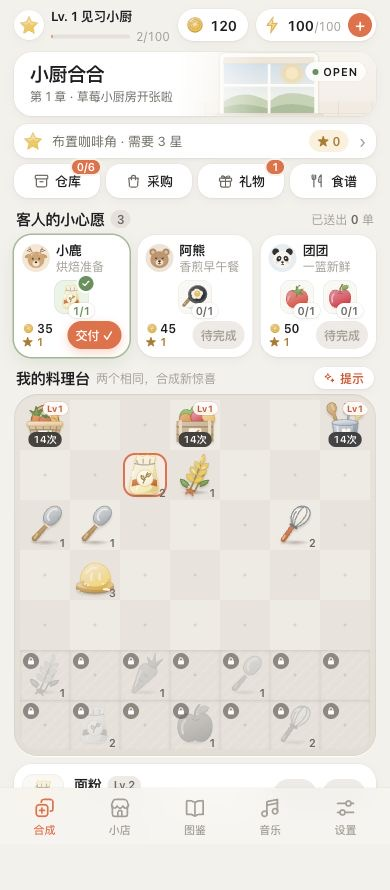
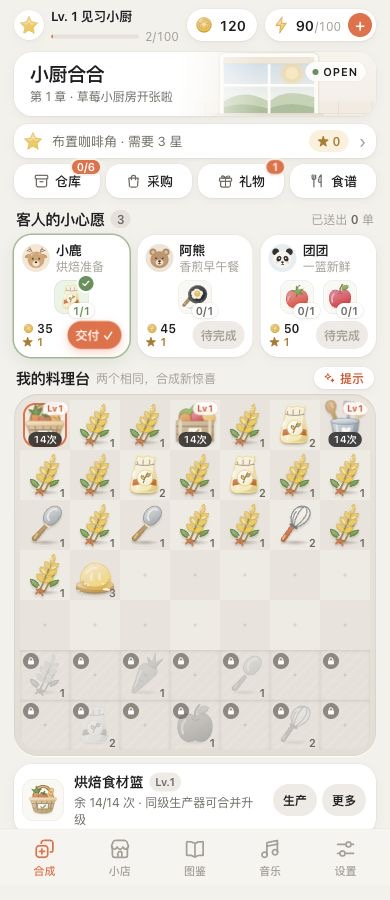
feat(kitchen-merge): add breathing and elastic interaction motion

diff --git a/kitchen-merge/dist/style.css b/kitchen-merge/dist/style.css
@@ -828,7 +828,8 @@ h1,h2,h3,p { margin:0; }
   box-shadow:inset 0 0 0 2px var(--accent);
 }
 
-.cell.selected .item-art { transform:scale(1.06); }
+.cell.selected { --item-scale:1.06; }
+.cell.selected .item-art { transform:scale(var(--item-scale)); }
 
 .cell.hint:before {
   inset:3px;
@@ -1537,6 +1538,125 @@ label.settings-row {
 .recipe-tool>svg { width:24px; height:24px; flex-shrink:0; }
 
 /* ---------- Motion ---------- */
+/* Inner artwork idles; the outer span handles selection and one-shot feedback. */
+.cell .item-art>svg { display:block; transform-origin:50% 65%; }
+.cell.ready-producer .item-art>svg {
+  animation:producerBreathe 3.2s ease-in-out var(--idle-phase,0s) infinite;
+}
+.cell.resource-item:not(.selected):not(.locked) .item-art>svg {
+  animation:rewardWiggle 4.8s ease-in-out var(--cue-phase,0s) infinite;
+}
+.cell:is(.selected,.hint):not(.producer):not(.locked) .item-art>svg {
+  animation:itemFloat 3.2s ease-in-out var(--idle-phase,0s) infinite;
+}
+.cell.ready-producer .item-level {
+  transform-origin:50% 80%;
+  animation:badgeHop 4.8s ease-in-out var(--cue-phase,0s) infinite;
+}
+.badge.attention { animation:badgeHop 4.8s ease-in-out -1.8s infinite; }
+.order-card.is-ready .order-submit {
+  position:relative;
+  overflow:hidden;
+  animation:readyNudge 4.8s ease-in-out var(--cue-phase,0s) infinite;
+}
+.order-card.is-ready .order-submit:after {
+  content:'';
+  position:absolute;
+  inset:-50% auto -50% -50%;
+  width:35%;
+  background:linear-gradient(90deg,transparent,color-mix(in srgb,var(--surface) 45%,transparent),transparent);
+  pointer-events:none;
+  animation:readySheen 4.8s ease-in-out var(--cue-phase,0s) infinite;
+}
+.cell.tap-pop .item-art { animation:itemTap .38s var(--ease); }
+.cell.generate-pop .item-art { animation:producerSquish .44s var(--ease); }
+.cell.merge-pop .item-art { animation:mergePop .58s var(--ease); }
+.cell.settle-pop .item-art { animation:itemSettle .3s var(--ease); }
+.cell:is(.pop,.tap-pop,.generate-pop,.merge-pop,.settle-pop,:active,.drag-source) .item-art>svg,
+.board.is-dragging .item-art>svg,
+.board.is-dragging .item-level { animation-play-state:paused!important; }
+.motion-paused .game-shell *,
+.motion-paused .game-shell *:before,
+.motion-paused .game-shell *:after { animation-play-state:paused!important; }
+
+.merge-flash {
+  position:fixed;
+  width:56px;
+  height:56px;
+  border:2px solid var(--gold);
+  border-radius:50%;
+  box-shadow:0 0 14px color-mix(in srgb,var(--gold) 30%,transparent),inset 0 0 12px color-mix(in srgb,var(--surface) 80%,transparent);
+  animation:mergeFlash .6s var(--ease) forwards;
+}
+.merge-flash:before,
+.merge-flash:after {
+  content:'';
+  position:absolute;
+  width:13px;
+  height:13px;
+  background:var(--gold);
+  clip-path:polygon(50% 0,62% 38%,100% 50%,62% 62%,50% 100%,38% 62%,0 50%,38% 38%);
+}
+.merge-flash:before { top:-7px; right:0; }
+.merge-flash:after { bottom:0; left:-7px; width:9px; height:9px; }
+
+@keyframes producerBreathe {
+  0%,100% { transform:translateY(0) scale(1); }
+  50% { transform:translateY(-1px) scale(1.065,1.04); }
+}
+@keyframes itemFloat {
+  0%,100% { transform:translateY(0) scale(1); }
+  50% { transform:translateY(-1.5px) scale(1.035); }
+}
+@keyframes rewardWiggle {
+  0%,22%,100% { transform:rotate(0) scale(1); }
+  6% { transform:rotate(-4deg) scale(1.04); }
+  12% { transform:rotate(4deg) scale(1.04); }
+  17% { transform:rotate(-2deg) scale(1.02); }
+}
+@keyframes badgeHop {
+  0%,18%,100% { transform:translateY(0) scale(1); }
+  5% { transform:translateY(-2px) scale(1.09); }
+  10% { transform:translateY(0) scale(1.04,.95); }
+  14% { transform:translateY(-1px) scale(1.03); }
+}
+@keyframes readyNudge {
+  0%,24%,100% { transform:scale(1); }
+  10% { transform:scale(1.045); }
+}
+@keyframes readySheen {
+  0%,24% { transform:translateX(0) skewX(-20deg); opacity:0; }
+  28% { opacity:1; }
+  44%,100% { transform:translateX(550%) skewX(-20deg); opacity:0; }
+}
+@keyframes itemTap {
+  0%,100% { transform:scale(var(--item-scale,1)); }
+  28% { transform:scale(.94, .9); }
+  64% { transform:scale(1.09,1.12); }
+}
+@keyframes producerSquish {
+  0%,100% { transform:scale(var(--item-scale,1)); }
+  25% { transform:translateY(2px) scale(1.1,.86); }
+  62% { transform:translateY(-2px) scale(.97,1.12); }
+}
+@keyframes mergePop {
+  0% { transform:scale(.55); }
+  40% { transform:translateY(-2px) scale(1.19,1.16); }
+  67% { transform:scale(1.02,.97); }
+  84% { transform:scale(1.09); }
+  100% { transform:scale(var(--item-scale,1)); }
+}
+@keyframes itemSettle {
+  0% { transform:translateY(-3px) scale(1.1); }
+  55% { transform:scale(1.04,.98); }
+  100% { transform:scale(var(--item-scale,1)); }
+}
+@keyframes mergeFlash {
+  0% { opacity:0; transform:translate(-50%,-50%) scale(.35) rotate(-12deg); }
+  22% { opacity:.9; }
+  100% { opacity:0; transform:translate(-50%,-50%) scale(1.45) rotate(12deg); }
+}
+
 @keyframes tapRing {
   from { opacity:1; transform:translate(-50%,-50%) scale(.4); }
   to { opacity:0; transform:translate(-50%,-50%) scale(1.5); }
@@ -1566,7 +1686,7 @@ label.settings-row {
 @keyframes pop {
   0% { transform:scale(.5); }
   60% { transform:scale(1.12); }
-  100% { transform:scale(1); }
+  100% { transform:scale(var(--item-scale,1)); }
 }
 
 @keyframes confetti {

diff --git a/kitchen-merge/ART_STYLE.md b/kitchen-merge/ART_STYLE.md
@@ -14,6 +14,7 @@
 - 底部是毛玻璃标签栏，弹窗是分组卡片式面板。动效用弹簧曲线 `--spring`，时长 0.2–0.45s。
 - 料理台采用一体奶油棋盘：沿用暖灰米色底，用同色系的轻微明暗交替提示七乘七格位。格子无间隙、无独立白色卡片，物品以较饱满的显示比例和短软影突出；选中、落点和提示高亮画在格内。页面布局、外框尺寸、全局配色和物品图稿保持原有设计。
 - 生产器靠等级和次数徽标识别，资源物品靠插画识别，不恢复彩色卡片底；冷却降饱和、锁定纹理和气泡膜保留。按压与弹出缩放只作用于图稿，棋格本体保持连续。
+- 待机动效按物品 ID 错峰：可生产厨具每 3.2 秒轻呼吸，选中/提示物品轻浮动，资源物品每 4.8 秒短暂摇摆；等级、礼物徽标轻跳，可交付按钮轻弹并扫光。内层 SVG 做待机，外层图稿做点击挤压、生产弹出、合成回弹，避免抢占同一 transform。拖拽暂停棋盘待机，冷却生产器停止呼吸，打开面板或页面隐藏时暂停背景动画；尊重系统「减少动态效果」，并停止生成装饰粒子。
 
 ## 2. 物品插画（`dist/art.mjs`）
 
